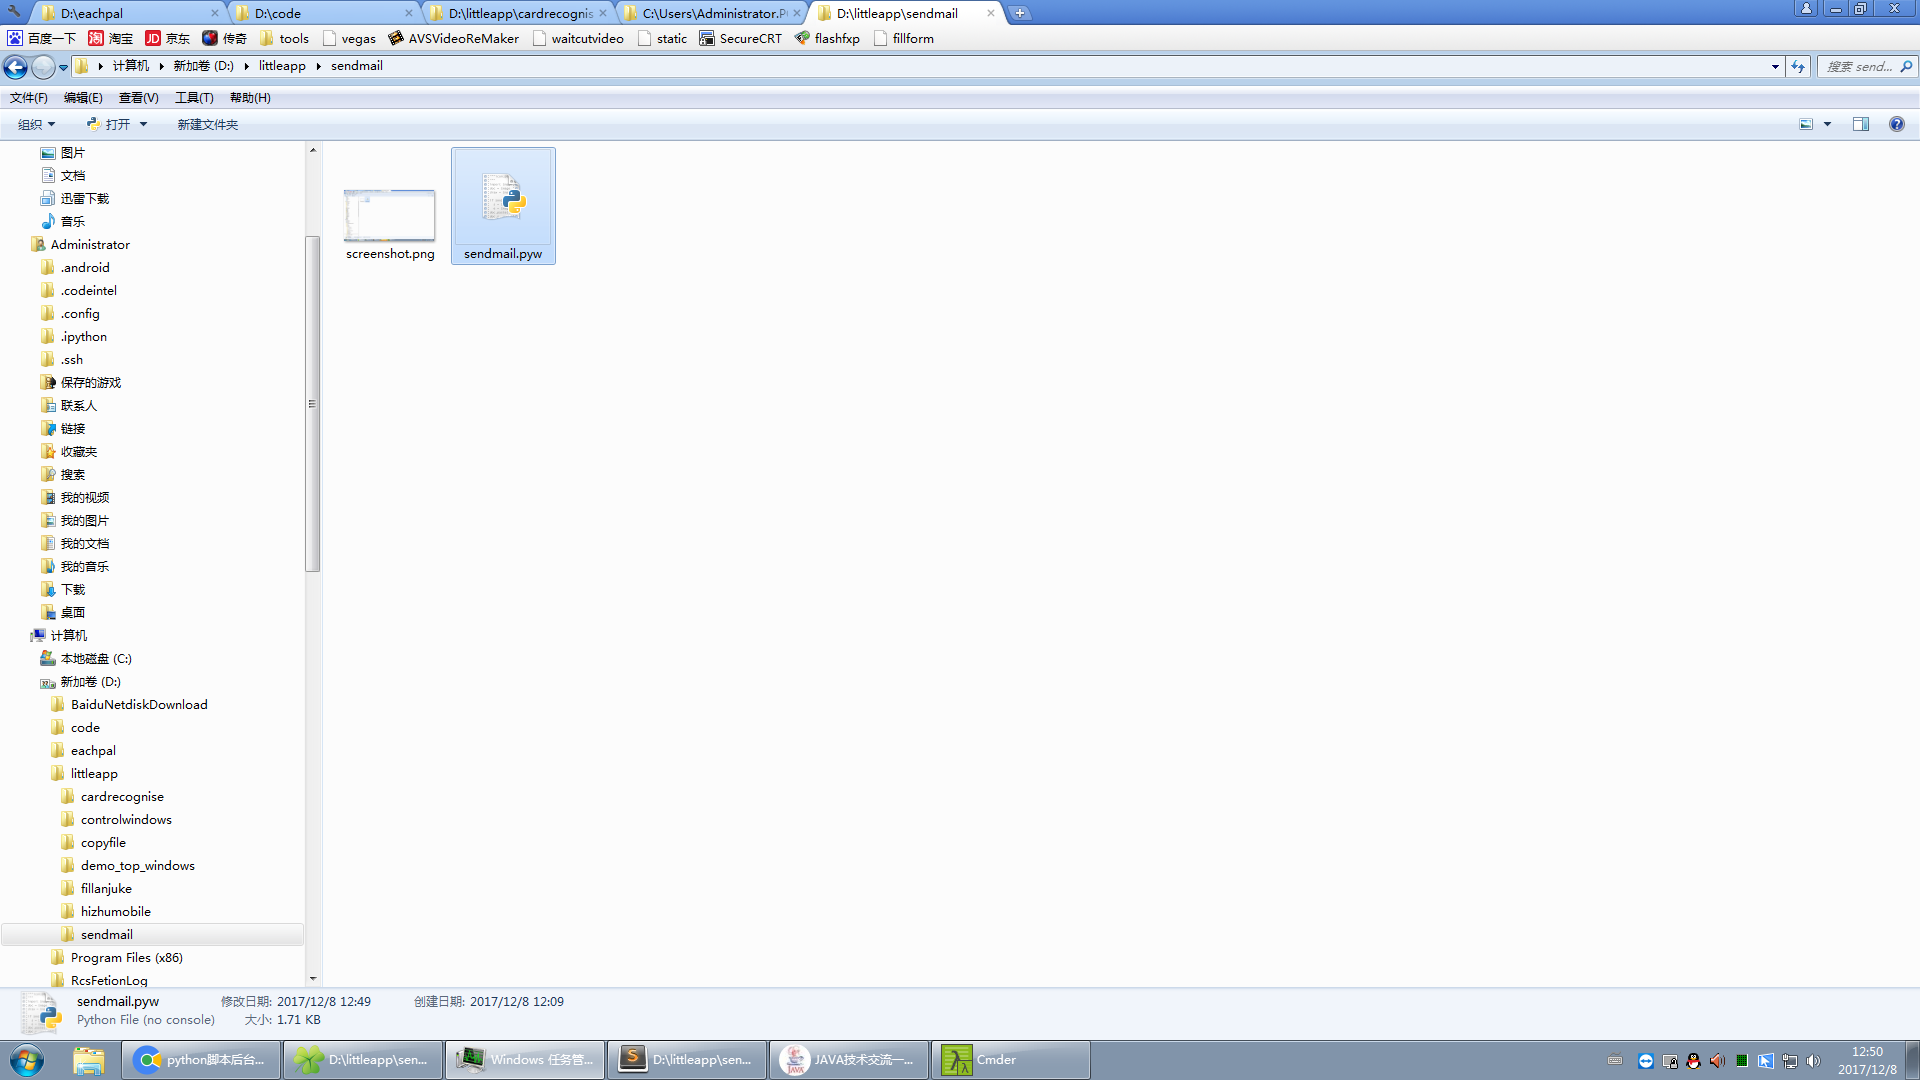
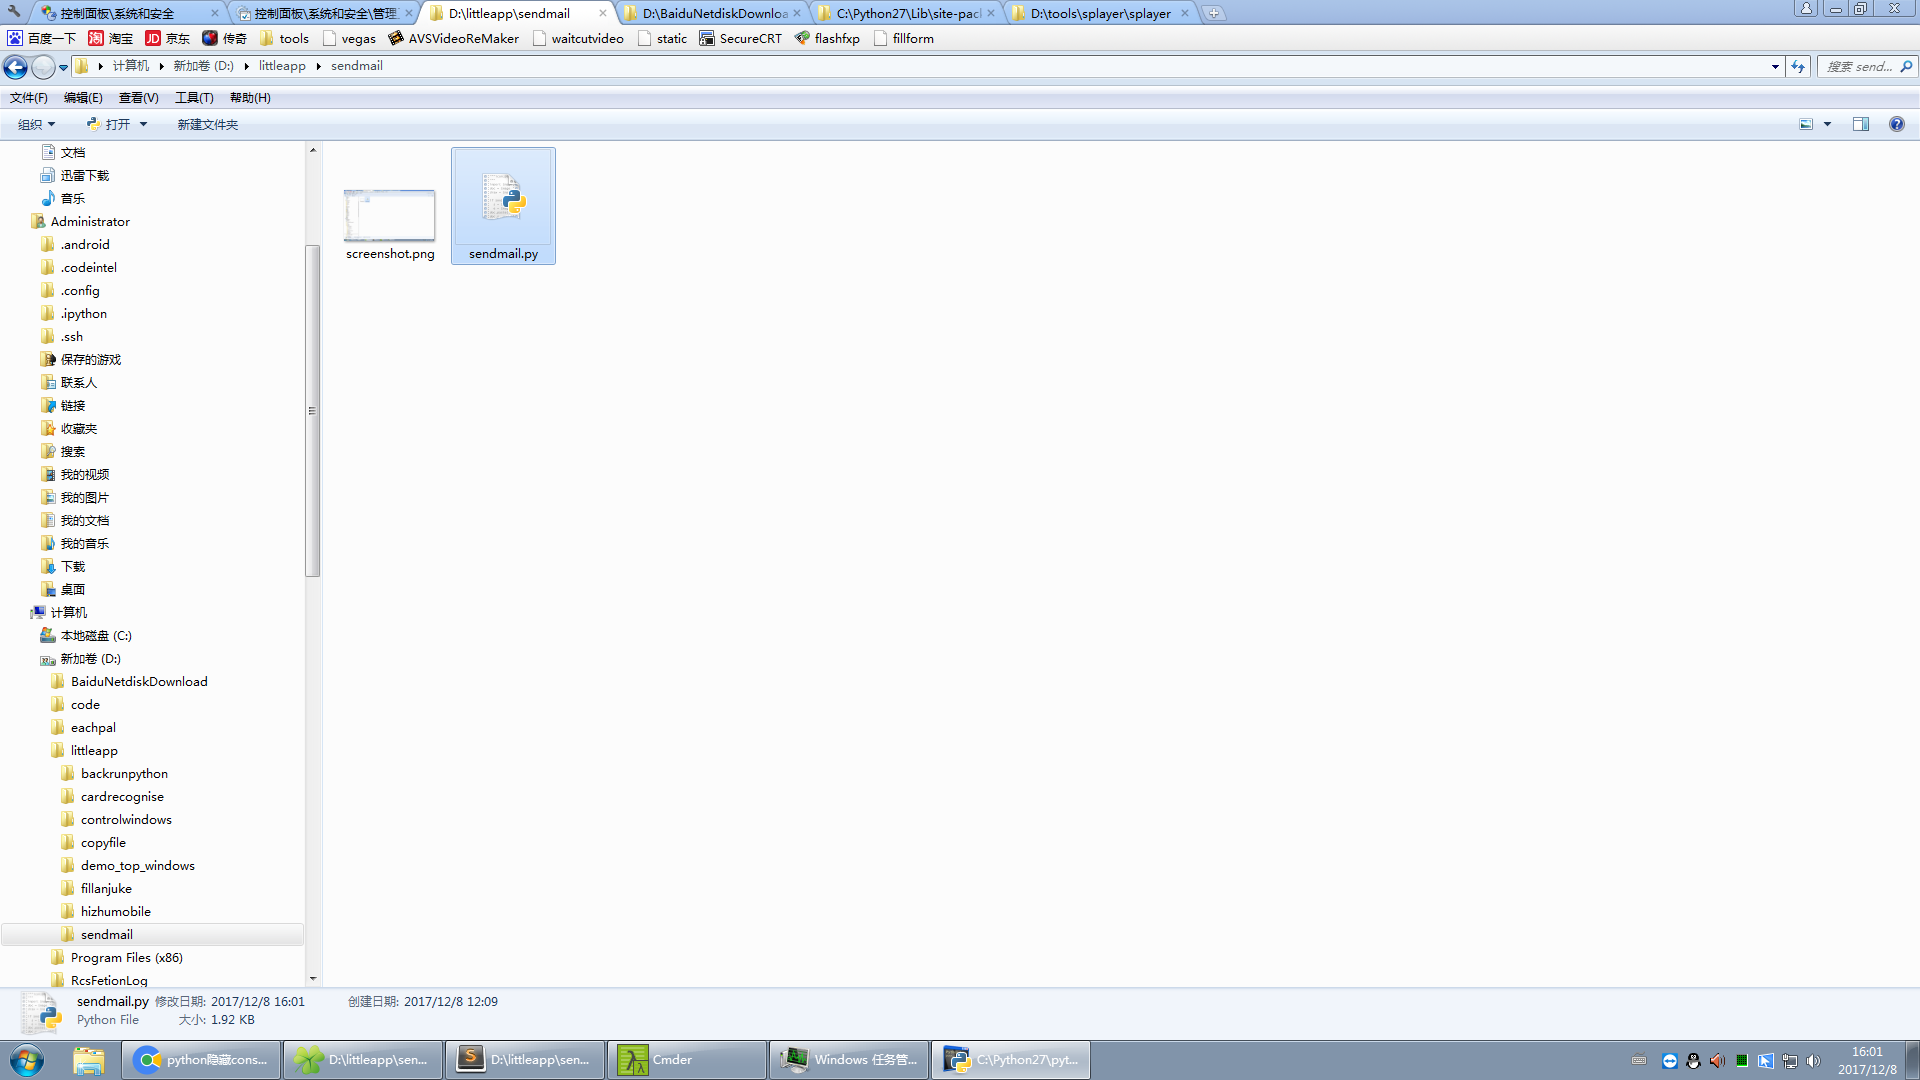
python运行隐藏dos窗口办法

diff --git a/backrunpython/backrunpython.py b/backrunpython/backrunpython.py
@@ -52,18 +52,18 @@ class SmallestPythonService(win32serviceutil.ServiceFramework):
     def SvcDoRun(self):
         #what to do#
         ##增加定时发邮件
-        from_addr = "13564945645@139.com"
-        password = "13564945645syy"
-        to_addr = "13564945645@139.com"
-        smtp_server = "smtp.139.com"
+        # from_addr = "13564945645@139.com"
+        # password = "13564945645syy"
+        # to_addr = "13564945645@139.com"
+        # smtp_server = "smtp.139.com"
 
-        msg = MIMEMultipart()
+        # msg = MIMEMultipart()
         # msg['From'] = self.format_addr('桌面截图')
         # msg['To'] = self.format_addr('管理员')
-        msg['Subject'] = Header(u'来自SMTP的问候……', 'utf-8').encode()
+        # msg['Subject'] = Header(u'来自SMTP的问候……', 'utf-8').encode()
 
         # add MIMEText:
-        msg.attach(MIMEText('send with file...', 'plain', 'utf-8'))
+        # msg.attach(MIMEText('send with file...', 'plain', 'utf-8'))
 
 
         #截图
@@ -80,13 +80,16 @@ class SmallestPythonService(win32serviceutil.ServiceFramework):
         #     encoders.encode_base64(mime)
         #     msg.attach(mime)
 
-        while True:
-            server = smtplib.SMTP(smtp_server, 25)
-            server.set_debuglevel(1)
-            server.login(from_addr, password)
-            server.sendmail(from_addr, [to_addr], msg.as_string())
-            server.quit()
-            time.sleep(5)
+        # while True:
+        #     server = smtplib.SMTP(smtp_server, 25)
+        #     server.set_debuglevel(1)
+        #     server.login(from_addr, password)
+        #     server.sendmail(from_addr, [to_addr], msg.as_string())
+        #     server.quit()
+        #     time.sleep(5)
+
+        #调用shell命令
+        os.system('python D:\\littleapp\\sendmail\\sendmail.py')
 
         win32event.WaitForSingleObject(self.hWaitStop, win32event.INFINITE)
 

diff --git a/sendmail/sendmail.py b/sendmail/sendmail.py
@@ -15,6 +15,25 @@ import time
 
 import smtplib
 
+##python隐藏console window的另一个方法
+
+# 做GUI系统的时候，总是想去掉DOS窗口，而一般的做法是用pythonw.exe启动。
+# 很可惜，目前的2.5版本的pythonw是有一些bug的。
+# 见：http://mail.python.org/pipermail/python-bugs-list/2004-June/023703.html 。
+# 我在做项目的时候就遇到过这类问题，而且还有一些乱七八糟解释不了的问题，而用python.exe启动就是好的，但是恼人的黑窗口又出现了。 
+# # 其实有一种办法可以解决，不能跨平台，仅限windows。是用windows api的ShowWindow方法，将console隐藏（就是看不到而已）。
+# 需要win32api库（copy两个文件win32api.pyd和win32gui.pyd就行了）。
+# 很简单吧，就是获得console的handle，然后隐藏（0分别代表NULL和SW_HIDE）。启动还是用python.exe。
+# 不过有一个缺点，DOS窗口在开始的时候会闪一下，:-)。
+#原链接http://noahgenius.iteye.com/blog/216124
+
+import win32api, win32gui  
+ct = win32api.GetConsoleTitle()  
+hd = win32gui.FindWindow(0,ct)  
+win32gui.ShowWindow(hd,0)
+######################################
+
+
 def _format_addr(s):
     name, addr = parseaddr(s)
     return formataddr(( \
